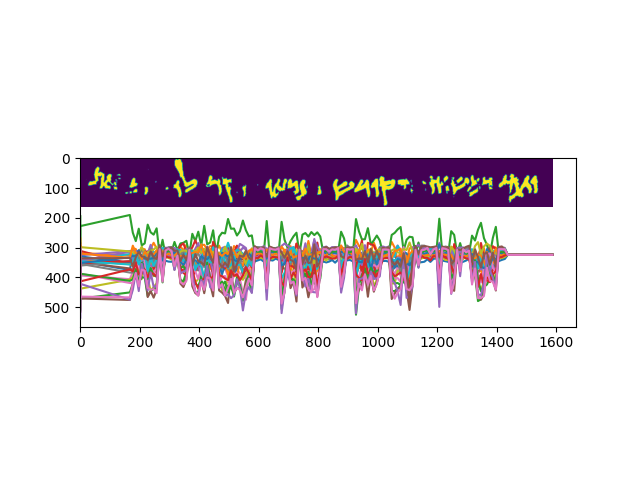
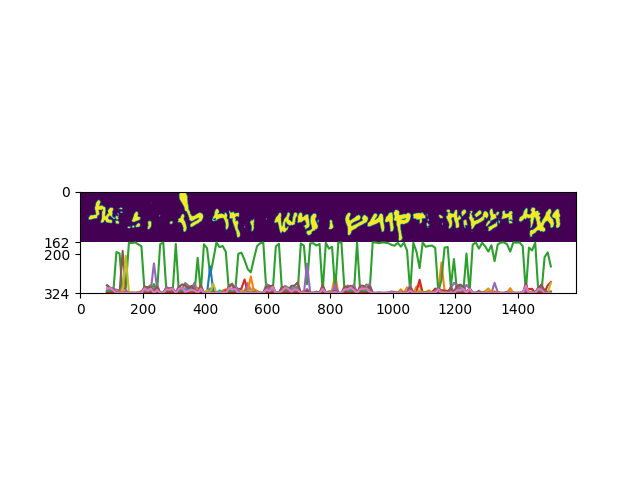
Some improvements to sliding window probabilities

diff --git a/qumran_seagulls/scripts/plot_sliding_window_probs.py b/qumran_seagulls/scripts/plot_sliding_window_probs.py
@@ -21,7 +21,6 @@ def plot_sliding_window(img: np.ndarray, cnn: BaselineCNN, step_size: int = 10):
 
     np.set_printoptions(edgeitems=30, linewidth=100000,
                         formatter=dict(float=lambda x: "%+.3f" % x))
-    window_ctr = 0
 
     for window_right_edge in range(w, h, -step_size):  # starting from the right, we go left, until we hit h, i.e. the last square window
         window = img[0:h, window_right_edge - h]  # crop the window
@@ -34,15 +33,22 @@ def plot_sliding_window(img: np.ndarray, cnn: BaselineCNN, step_size: int = 10):
         print(x)
         y = cnn(x).softmax(dim=-1)
         print(y)
-        predictions[1:, window_ctr] = y.detach()
+        predictions[1:, int(window_right_edge / step_size)] = y.detach()
 
-        window_ctr += 1  # could be more complicated, I just used a second counter
+    # delete columns that contain all 0s (first few cols on the right)
+    idx = np.argwhere(np.all(predictions[..., :] == 0, axis=0))
+    predictions = np.delete(predictions, idx, axis=1)
 
     print(f"predictions matrix:\n{predictions}")
 
     plt.imshow(img)
     for cls in range(N_CLASSES):
-        plt.plot(predictions[0], h * 2 - h*predictions[cls+1])  # plot the first row, along with each one of the other rows
+        plt.plot(predictions[0] - h/2, h * 2 - h*predictions[cls+1])
+                # x pos: right edge of window - half the height (since window is square) will give the center of the window
+                # y pos: imshow flips axes so there is a minus in front of the predictions, scale it up by h and move it below the image
+    plt.ylim(ymin=0, ymax=2*h)
+    plt.yticks([0,h,2*h])
+    plt.gca().invert_yaxis()
     plt.show()
 
 
